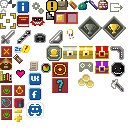
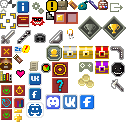
UI Polishing
- Updated social icons for VK, FB and Discord

Changed region(s): [[0.3438, 0.7188, 0.75, 0.875]]

diff --git a/RemixedDungeon/src/main/java/com/watabou/pixeldungeon/ui/Icons.java b/RemixedDungeon/src/main/java/com/watabou/pixeldungeon/ui/Icons.java
@@ -223,10 +223,13 @@ public enum Icons {
                 icon.frame(icon.texture.uvRect(110, 78, 126, 94));
                 break;
             case VK:
-                icon.frame(icon.texture.uvRect(28, 73, 42, 86));
+                icon.frame(icon.texture.uvRect(62, 94, 78, 110));
                 break;
             case FB:
-                icon.frame(icon.texture.uvRect(28, 87, 42, 101));
+                icon.frame(icon.texture.uvRect(79, 94, 95, 110));
+                break;
+            case DISCORD:
+                icon.frame(icon.texture.uvRect(45, 94, 61, 110));
                 break;
             case DISCORD:
                 icon.frame(icon.texture.uvRect(26, 102, 44, 118));
